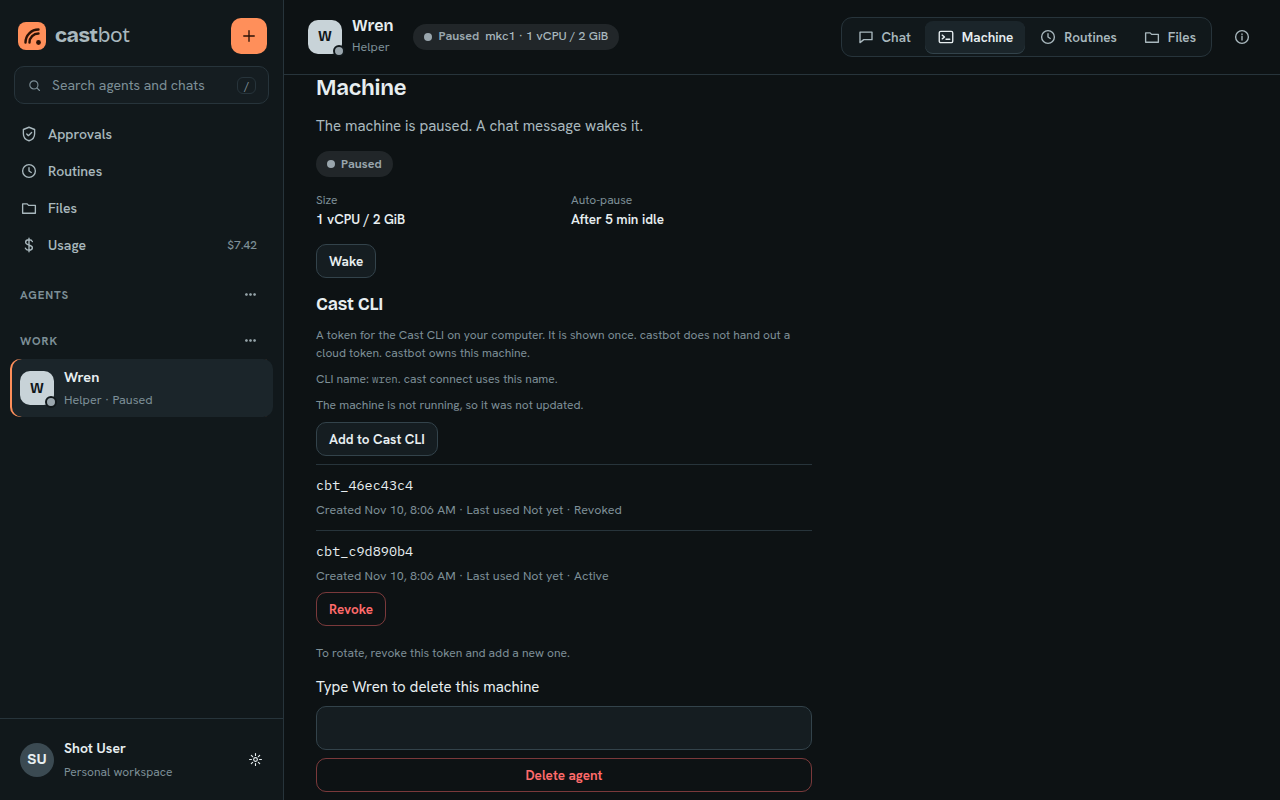
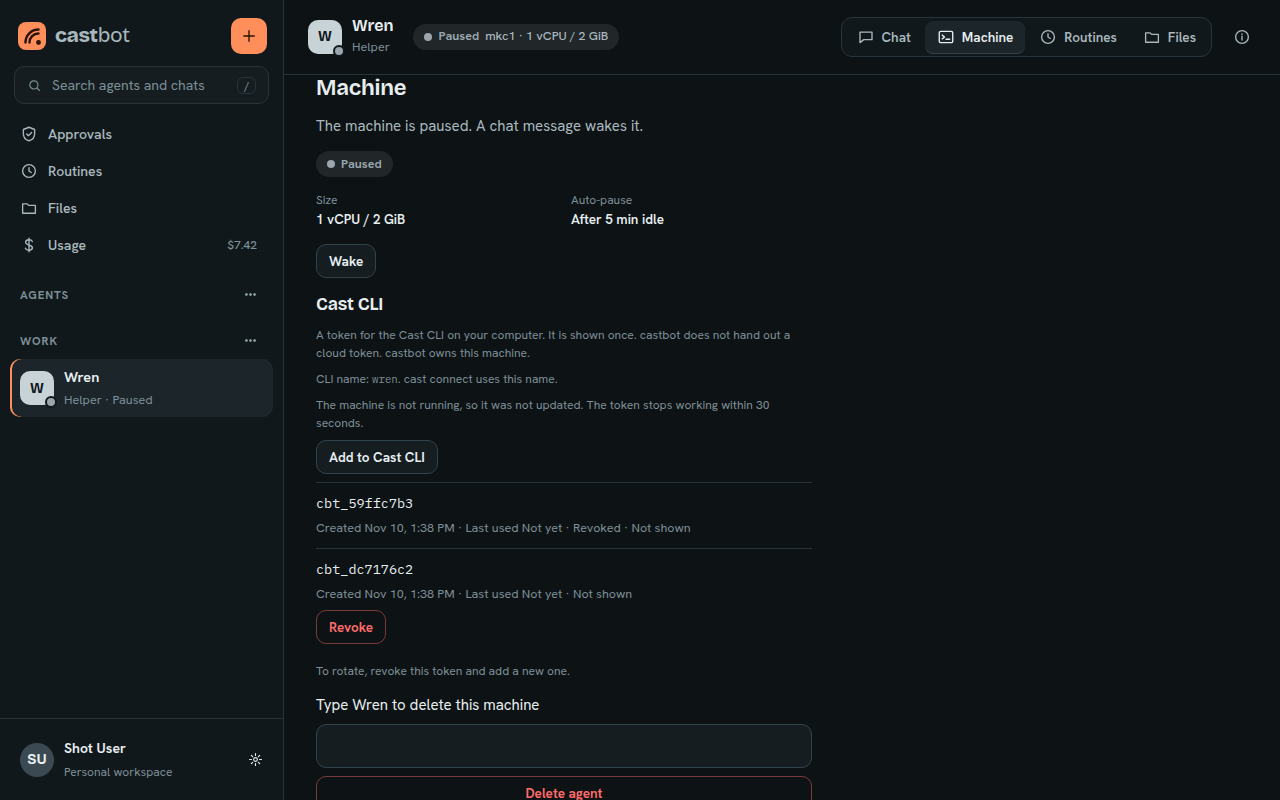
S07: keep the fixture key out of the scanner and label unseen tokens once
Gitleaks treats the fixture provider key as a generic key. Those lines are marked allow, and the introducing commit is ignored. A token that was never shown says Not shown once. A revoked unseen token says Revoked and Not shown.

Changed region(s): [[0.25, 0.5, 0.5625, 0.9062], [0.4062, 0.9375, 0.5, 1.0], [0.4688, 0.5, 0.5938, 0.5312]]

diff --git a/internal/web/templates/pages.html b/internal/web/templates/pages.html
@@ -339,7 +339,7 @@
 {{if .CLINote}}<p class="fineprint">{{.CLINote}}</p>{{end}}
 {{if .CLIBlob}}<pre class="cli-blob">{{.CLIBlob}}</pre>{{end}}
 <form method="post" action="/agents/{{.Agent.ID}}/cli"><input type="hidden" name="csrf" value="{{.CSRF}}"><button class="btn sm" type="submit">Add to Cast CLI</button></form>
-{{if .CLITokens}}<div class="toks">{{range .CLITokens}}<div class="tok"><div class="mono">{{.Prefix}}</div><div class="meta">Created {{.Created}} · Last used {{.LastUsed}} · {{.Status}}{{if .Unseen}} · Not shown{{end}}</div>{{if not .Revoked}}<form method="post" action="/agents/{{$.Agent.ID}}/cli/{{.ID}}/revoke" hx-post="/agents/{{$.Agent.ID}}/cli/{{.ID}}/revoke" hx-target="#cast-cli" hx-swap="outerHTML"><input type="hidden" name="csrf" value="{{$.CSRF}}"><button class="btn sm danger-ghost" type="submit">Revoke</button></form>{{end}}</div>{{end}}</div><p class="fineprint">To rotate, revoke this token and add a new one.</p>{{end}}
+{{if .CLITokens}}<div class="toks">{{range .CLITokens}}<div class="tok"><div class="mono">{{.Prefix}}</div><div class="meta">Created {{.Created}} · Last used {{.LastUsed}} · {{.Status}}{{if and .Unseen .Revoked}} · Not shown{{end}}</div>{{if not .Revoked}}<form method="post" action="/agents/{{$.Agent.ID}}/cli/{{.ID}}/revoke" hx-post="/agents/{{$.Agent.ID}}/cli/{{.ID}}/revoke" hx-target="#cast-cli" hx-swap="outerHTML"><input type="hidden" name="csrf" value="{{$.CSRF}}"><button class="btn sm danger-ghost" type="submit">Revoke</button></form>{{end}}</div>{{end}}</div><p class="fineprint">To rotate, revoke this token and add a new one.</p>{{end}}
 </section>
 {{end}}
 

diff --git a/internal/web/s07_test.go b/internal/web/s07_test.go
@@ -334,25 +334,25 @@ func TestMissingProviderKeyFailsFast(t *testing.T) {
 		t.Fatal(err)
 	}
 	for _, ev := range events {
-		if strings.Contains(ev.Payload, "fixture-s07-key") {
+		if strings.Contains(ev.Payload, "fixture-s07-key") { // gitleaks:allow
 			t.Fatal("key in run events")
 		}
 	}
 	code, page, _ := h.do(http.MethodGet, "/agents/"+agent.ID, "", ip, nil)
-	if code != 200 || strings.Contains(page, "fixture-s07-key") || !strings.Contains(page, want) {
+	if code != 200 || strings.Contains(page, "fixture-s07-key") || !strings.Contains(page, want) { // gitleaks:allow
 		t.Fatalf("page %d", code)
 	}
-	t.Setenv("CASTBOT_PROVIDER_KEY_DIGITALOCEAN", "fixture-s07-key")
+	t.Setenv("CASTBOT_PROVIDER_KEY_DIGITALOCEAN", "fixture-s07-key") // gitleaks:allow
 	code, secrets, _ := h.do(http.MethodGet, "/api/castlet/agents/"+agent.ID+"/secrets", "", ip, map[string]string{"Authorization": "Bearer " + token})
-	if code != 200 || !strings.Contains(secrets, "DIGITALOCEAN_MODEL_ACCESS_KEY") || !strings.Contains(secrets, "fixture-s07-key") {
+	if code != 200 || !strings.Contains(secrets, "DIGITALOCEAN_MODEL_ACCESS_KEY") || !strings.Contains(secrets, "fixture-s07-key") { // gitleaks:allow
 		t.Fatalf("secrets %d", code)
 	}
 	code, page, _ = h.do(http.MethodGet, "/agents/"+agent.ID+"/secrets", "", ip, nil)
-	if code != 200 || strings.Contains(page, "fixture-s07-key") {
+	if code != 200 || strings.Contains(page, "fixture-s07-key") { // gitleaks:allow
 		t.Fatal("key on the owner page")
 	}
 	bundle, err := h.st.LatestBundle(context.Background(), agent.UserID, agent.ID)
-	if err != nil || strings.Contains(bundle.YAML, "fixture-s07-key") || !strings.Contains(bundle.YAML, model) {
+	if err != nil || strings.Contains(bundle.YAML, "fixture-s07-key") || !strings.Contains(bundle.YAML, model) { // gitleaks:allow
 		t.Fatal("bundle")
 	}
 }

diff --git a/internal/web/shots_test.go b/internal/web/shots_test.go
@@ -793,7 +793,7 @@ func shootCLITokens(t *testing.T, browser context.Context, dir string, width, he
 	if err := chromedp.Run(ctx, chromedp.Tasks{
 		chromedp.WaitVisible(`#cast-cli .tok button`, chromedp.ByQuery),
 		chromedp.Click(`#cast-cli .tok button`, chromedp.ByQuery),
-		chromedp.Poll(js(`(function(){var t=document.body.innerText||"";return t.indexOf("Revoked")>=0&&t.indexOf("Not yet")>=0&&t.indexOf("Active")>=0;})()`), nil, chromedp.WithPollingTimeout(10*time.Second)),
+		chromedp.Poll(js(`(function(){var t=document.body.innerText||"";return t.indexOf("Revoked")>=0&&t.indexOf("Not yet")>=0&&t.indexOf("Not shown")>=0;})()`), nil, chromedp.WithPollingTimeout(10*time.Second)),
 	}); err != nil {
 		t.Fatal(err)
 	}

diff --git a/internal/web/shots_s07_test.go b/internal/web/shots_s07_test.go
@@ -62,7 +62,7 @@ func shootS07Waking(t *testing.T, browser context.Context, dir string, width, he
 
 func shootS07Reply(t *testing.T, browser context.Context, dir string, width, height int, theme, name string) {
 	t.Helper()
-	t.Setenv("CASTBOT_PROVIDER_KEY_DIGITALOCEAN", "fixture-s07-key")
+	t.Setenv("CASTBOT_PROVIDER_KEY_DIGITALOCEAN", "fixture-s07-key") // gitleaks:allow
 	h, agent := s07ShotAgent(t, theme, "reply")
 	ctx := openS07(t, browser, h, agent.UserID, "/agents/"+agent.ID, width, height, `(function(){return document.querySelector("#composer textarea")!=null;})()`)
 	if err := chromedp.Run(ctx, chromedp.Tasks{

diff --git a/internal/web/runtime_test.go b/internal/web/runtime_test.go
@@ -54,7 +54,7 @@ func TestRuntimeImageAndSmoke(t *testing.T) {
 	}
 
 	const reply = "Streamed from the fixture provider."
-	const key = "fixture-s07-key"
+	const key = "fixture-s07-key" // gitleaks:allow
 	ln, err := net.Listen("tcp", "0.0.0.0:0")
 	if err != nil {
 		t.Fatal(err)
